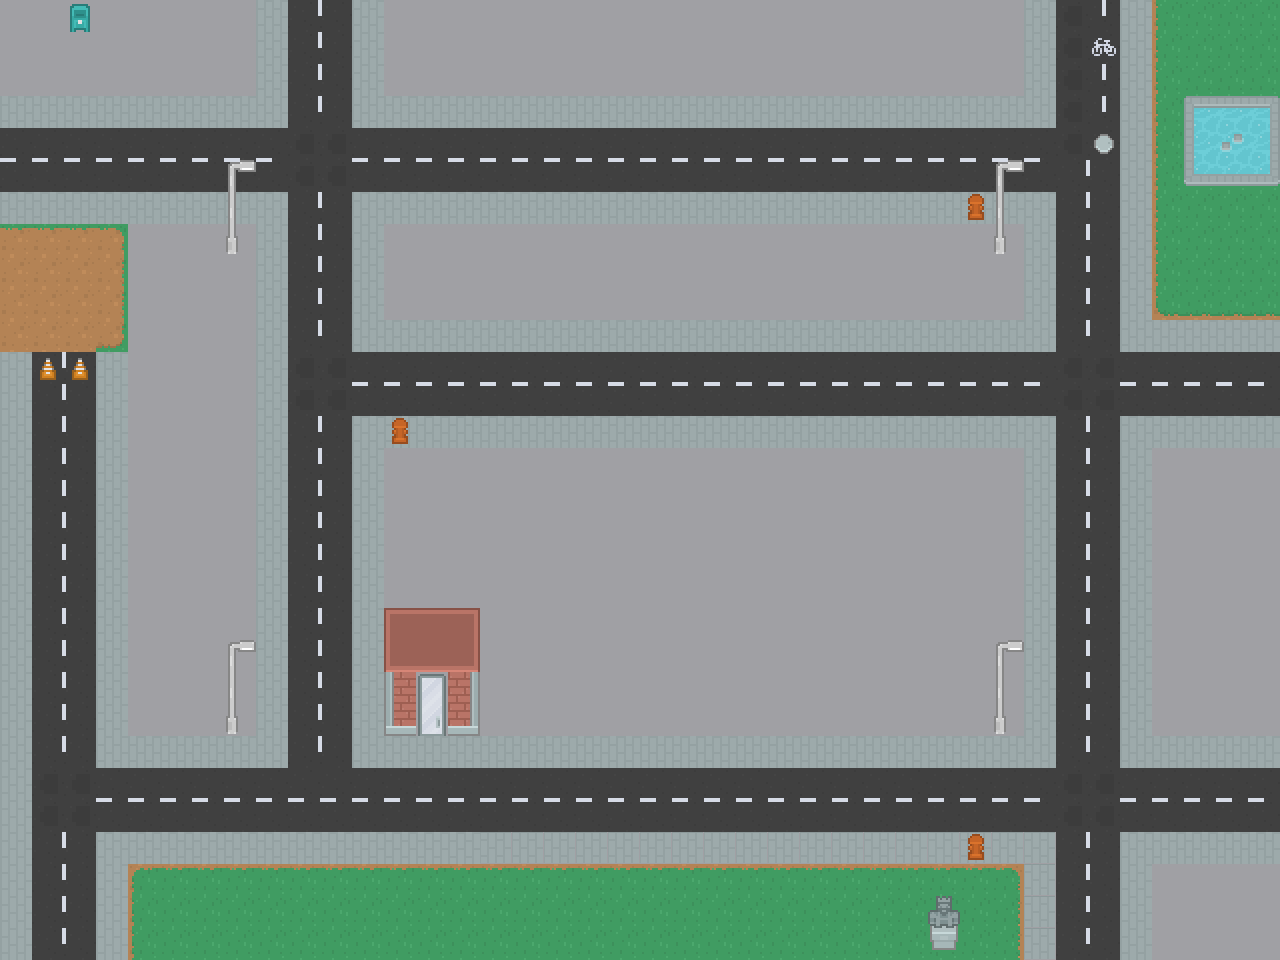
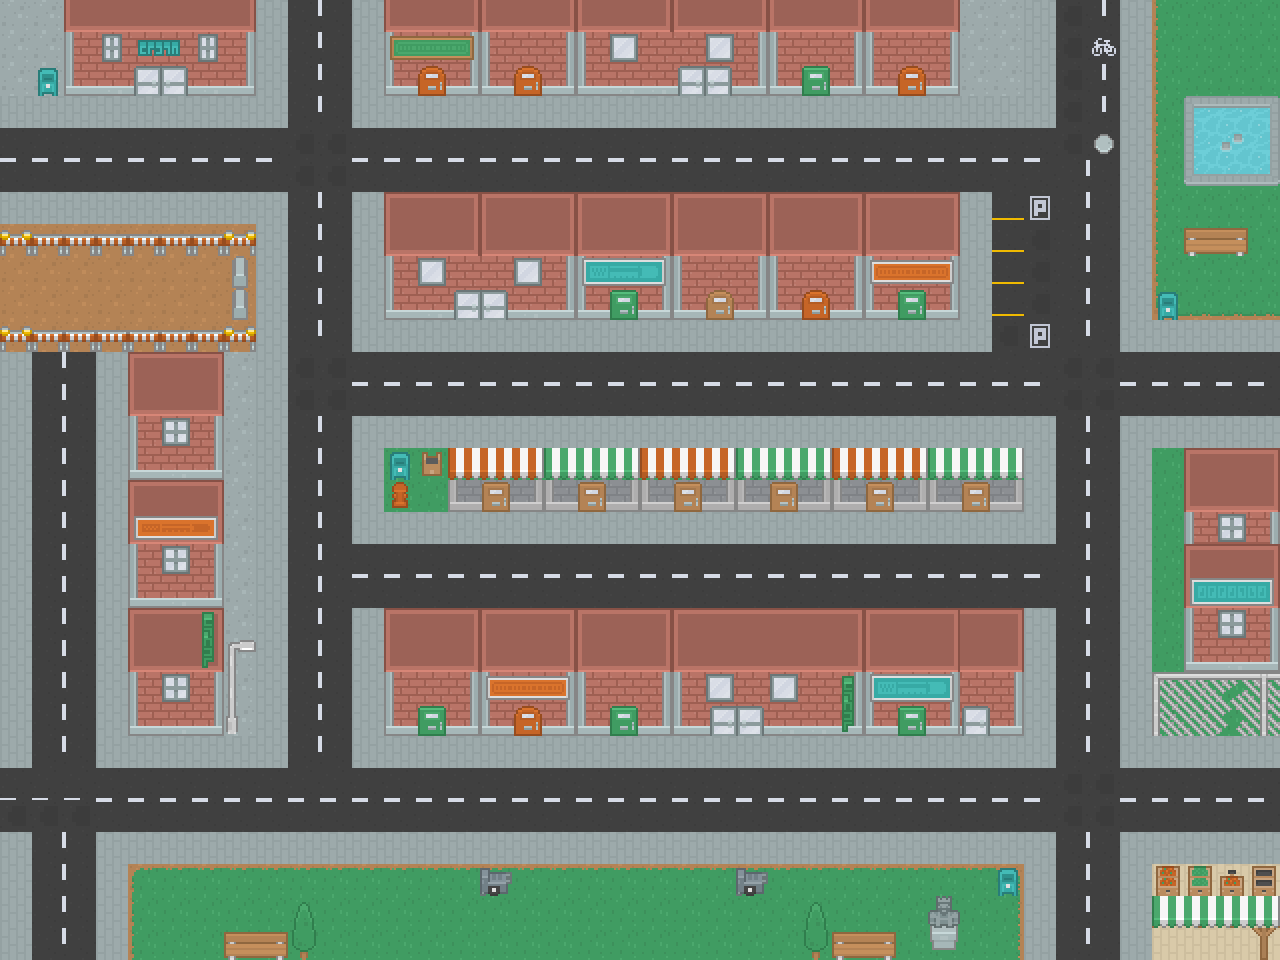
Agregados dos edificios y fondo ajustado

diff --git a/src/ia/Celda.java b/src/ia/Celda.java
@@ -13,35 +13,50 @@ public class Celda extends JComponent implements Constantes {
     public int coordenadaX;
     public int coordenadaY;
     public int i;
-    public int j;   
+    public int j;
     public char tipoCelda;
+    public int indexSprite;
+    public BufferedImage sprites[], imagenSprites;
     //nuevos atributos para manejar imagenes
-    public BufferedImage jugador, obstaculo, camino, adversario, portal;
+    public BufferedImage jugador, obstaculo, camino, vehiculo, portal;
     public BufferedImage edificio, acera, carretera;
 
     //constructor, inicializa los atributos
     public Celda(int x, int y, int i, int j, char tipo) {
         this.coordenadaX = x;
         this.coordenadaY = y;
-        this.i=i;
-        this.j=j;
+        this.i = i;
+        this.j = j;
         this.tipoCelda = tipo;
+        //indexSprite = 2;
         try {
             jugador = ImageIO.read(new File("images/jugador.png"));
-            obstaculo = ImageIO.read(new File("images/obstaculo.png"));
-            camino = ImageIO.read(new File("images/camino.png"));
-            adversario = ImageIO.read(new File("images/adversario.png"));
+            //obstaculo = ImageIO.read(new File("images/obstaculo.png"));
+            //camino = ImageIO.read(new File("images/camino.png"));
+            vehiculo = ImageIO.read(new File("images/vehiculo.png"));
             //portal = ImageIO.read(new File("images/portal.png"));
             edificio = ImageIO.read(new File("images/edificio.png"));
             acera = ImageIO.read(new File("images/acera.png"));
             carretera = ImageIO.read(new File("images/carretera.png"));
+            /*//gestion de sprites
+            //cargo la imagen de grupo de imagenes
+            imagenSprites = ImageIO.read(new File("images/jugador2.png"));
+            //creo una array de 2 x 2
+            sprites = new BufferedImage[2 * 2];
+            //lo recorro separando las imagenes
+            for (int is = 0; is < 2; is++) {
+                for (int js = 0; js < 2; js++) {
+                    sprites[(i * 2) + j] = imagenSprites.getSubimage(i * TAMANIO_CELDA, j * TAMANIO_CELDA, TAMANIO_CELDA, TAMANIO_CELDA);
+                }
+            }*/
         } catch (IOException e) {
             System.out.println(e.toString());
         }
     }
 
     @Override
-    public void update(Graphics g) {
+    public void update(Graphics g
+    ) {
         switch (tipoCelda) {
             case 'J':
                 g.drawImage(jugador, coordenadaX, coordenadaY, null);
@@ -49,9 +64,13 @@ public class Celda extends JComponent implements Constantes {
             case 'O':
                 g.drawImage(obstaculo, coordenadaX, coordenadaY, this);
                 break;
-           /* case 'V':
-                g.drawImage(camino, coordenadaX, coordenadaY, this);
-                break;*/
+            case 'V':
+                g.setColor(COLORFONDO);
+                g.fillRect(coordenadaX, coordenadaY, TAMANIO_CELDA, TAMANIO_CELDA);
+                break;
+            case 'H':
+                g.drawImage(vehiculo, coordenadaX, coordenadaY, this);
+                break;
             case 'A':
                 g.drawImage(acera, coordenadaX, coordenadaY, this);
                 break;
@@ -63,7 +82,7 @@ public class Celda extends JComponent implements Constantes {
                 break;*/
         }
     }
-    
+
     @Override
     public void paintComponent(Graphics g) {
         update(g);

diff --git a/src/ia/Lienzo.java b/src/ia/Lienzo.java
@@ -14,9 +14,13 @@ public class Lienzo extends Canvas implements Constantes {
 
     public Laberinto laberinto;
     public Image fondo;
+
     public Vehiculo auto, auto2;
     public Jugador jugador;
     public Timer lanzadorTareas;
+
+    public Graphics graficoBuffer;
+    public Image imagenBuffer;
 
     public Lienzo() {
         laberinto = new Laberinto(this);
@@ -29,8 +33,7 @@ public class Lienzo extends Canvas implements Constantes {
             System.out.println(e.toString());
         }
 
-        this.setSize(N_CELDAS_ANCHO, N_CELDAS_ALTO);
-
+        // this.setSize(N_CELDAS_ANCHO, N_CELDAS_ALTO);
         //escuchador eventos de teclado
         addKeyListener(new KeyAdapter() {
             @Override
@@ -46,8 +49,19 @@ public class Lienzo extends Canvas implements Constantes {
 
     @Override
     public void update(Graphics g) {
-        g.drawImage(fondo, 0, 0, null);
-        laberinto.paintComponent(g);
+        if (graficoBuffer == null) {
+            imagenBuffer = createImage(this.getWidth(), this.getHeight());
+            graficoBuffer = imagenBuffer.getGraphics();
+        }
+        //volcamos color de fondo e imagen en el nuevo buffer grafico
+        graficoBuffer.setColor(getBackground());
+        graficoBuffer.fillRect(0, 0, this.getWidth(), this.getHeight());
+        graficoBuffer.drawImage(fondo, 0, 0, null);
+        laberinto.update(graficoBuffer);
+        //pintamos la imagen previa
+        g.drawImage(imagenBuffer, 0, 0, null);
+        /*g.drawImage(fondo, 0, 0, null);
+        laberinto.paintComponent(g);*/
     }
 
     @Override

diff --git a/src/ia/Jugador.java b/src/ia/Jugador.java
@@ -22,9 +22,9 @@ public class Jugador extends TimerTask implements Constantes {
 
     public void moverJugadorDerecha() {
         if (jugador.coordenadaX < N_CELDAS_ANCHO - 1) {
-            //si al mover a la derecha no es adversario
+            //si al mover a la derecha no es vehiculo
             //me muevo normal
-            if (laberinto.celdas[jugador.coordenadaX + 1][jugador.coordenadaY].tipoCelda != 'A') {
+            if (laberinto.celdas[jugador.coordenadaX + 1][jugador.coordenadaY].tipoCelda != 'H') {
                 laberinto.celdas[jugador.coordenadaX][jugador.coordenadaY].tipoCelda = 'V';
                 jugador.coordenadaX = jugador.coordenadaX + 1;
                 laberinto.celdas[jugador.coordenadaX][jugador.coordenadaY].tipoCelda = 'J';
@@ -45,8 +45,8 @@ public class Jugador extends TimerTask implements Constantes {
         //si no estocoordenadaY al inicio
         if (jugador.coordenadaX > 0) {
             //compruebo que al moverme a la izquierda no
-            //este el adversario
-            if (laberinto.celdas[jugador.coordenadaX - 1][jugador.coordenadaY].tipoCelda != 'A') {
+            //este el vehiculo
+            if (laberinto.celdas[jugador.coordenadaX - 1][jugador.coordenadaY].tipoCelda != 'H') {
                 laberinto.celdas[jugador.coordenadaX][jugador.coordenadaY].tipoCelda = 'V';
                 jugador.coordenadaX = jugador.coordenadaX - 1;
                 laberinto.celdas[jugador.coordenadaX][jugador.coordenadaY].tipoCelda = 'J';

diff --git a/src/ia/Vehiculo.java b/src/ia/Vehiculo.java
@@ -9,26 +9,26 @@ public class Vehiculo extends TimerTask implements Constantes {
 
     public Vehiculo(Laberinto laberinto) {
         this.laberinto = laberinto;
-        auto = new Celda(N_CELDAS_ANCHO - 1, numeroAleatorio(0, N_CELDAS_ALTO - 1), 0, 0, 'A');
-        laberinto.celdas[auto.coordenadaX][auto.coordenadaY].tipoCelda = 'A';
+        auto = new Celda(N_CELDAS_ANCHO - 1, numeroAleatorio(0, N_CELDAS_ALTO - 1), 0, 0, 'H');
+        laberinto.celdas[auto.coordenadaX][auto.coordenadaY].tipoCelda = 'H';
     }
 
-    public void moverAdversario() {
+    public void moverVehiculo() {
         if (auto.coordenadaX > 0) {
             laberinto.celdas[auto.coordenadaX][auto.coordenadaY].tipoCelda = 'V';
             auto.coordenadaX = auto.coordenadaX - 1;
-            laberinto.celdas[auto.coordenadaX][auto.coordenadaY].tipoCelda = 'A';
+            laberinto.celdas[auto.coordenadaX][auto.coordenadaY].tipoCelda = 'H';
         } else {
             laberinto.celdas[auto.coordenadaX][auto.coordenadaY].tipoCelda = 'V';
             auto.coordenadaX = N_CELDAS_ANCHO - 1;
             auto.coordenadaY = numeroAleatorio(0, N_CELDAS_ALTO - 1);
-            laberinto.celdas[auto.coordenadaX][auto.coordenadaY].tipoCelda = 'A';
+            laberinto.celdas[auto.coordenadaX][auto.coordenadaY].tipoCelda = 'H';
         }
     }
 
     @Override
     public void run() {
-        moverAdversario();
+        moverVehiculo();
         laberinto.lienzoPadre.repaint();
     }
 }

diff --git a/src/ia/Constantes.java b/src/ia/Constantes.java
@@ -1,12 +1,13 @@
 package ia;
 
+import java.awt.Color;
 import java.util.Random;
 
 public interface Constantes {
 
-    public final int TAMANIO_CELDA = 32;
-    public final int N_CELDAS_ANCHO = 40;
-    public final int N_CELDAS_ALTO = 30;
+    public final int TAMANIO_CELDA = 31;
+    public final int N_CELDAS_ANCHO = 42;
+    public final int N_CELDAS_ALTO = 32;
     public final int SIZE_WIDTH = TAMANIO_CELDA * N_CELDAS_ANCHO;
     public final int SIZE_HEIGHT = TAMANIO_CELDA * N_CELDAS_ALTO;
 
@@ -14,12 +15,15 @@ public interface Constantes {
     public final char JUGADOR = 'J';
     public final char CAMINO = 'V';
     public final char OBSTACULO = 'O';
-    public final char ADVERSARIO = 'A';
+    public final char VEHICULO = 'H';
     //public final char PORTAL = 'P';
     //nuevas constantes
-    public final char E = 'E';
-    public final char A = 'A';
-    public final char C = 'C';
+    public final char EDIFICIO = 'E';
+    public final char ACERA = 'A';
+    public final char CALLE = 'C';
+
+    public final int ALFA = 150;
+    public final Color COLORFONDO = new Color(192, 192, 192, ALFA);
 
     default int numeroAleatorio(int minimo, int maximo) {
         Random random = new Random();

diff --git a/src/ia/Laberinto.java b/src/ia/Laberinto.java
@@ -19,12 +19,9 @@ public class Laberinto extends JComponent implements Constantes {
                 celdas[i][j] = new Celda(i + (i * TAMANIO_CELDA), j + (j * TAMANIO_CELDA), i, j, 'V');
             }
         }
-        //pongo un edificio
-        for (int i = 5; i < 9; i++) {
-            for (int j = 5; j < 9; j++) {
-                celdas[i][j].tipoCelda = 'E';
-            }
-        }
+        //pongo unos edificios
+        crearEdificio(2, 8, 0, 3);
+        crearEdificio(11, 30, 0, 3);
 
         celdaMovimiento = new Celda(0, 0, 0, 0, 'J');
     }
@@ -98,7 +95,7 @@ public class Laberinto extends JComponent implements Constantes {
     }
 
     private boolean noHayPared(int x, int y) {
-        return celdas[x][y].tipoCelda != 'E';
+        return celdas[x][y].tipoCelda != 'O';
     }
 
     private void avanzar(int x, int y, char mov) {
@@ -122,4 +119,11 @@ public class Laberinto extends JComponent implements Constantes {
         }
     }
 
+    private void crearEdificio(int x1, int x2, int y1, int y2) {
+        for (int i = x1; i < x2; i++) {
+            for (int j = y1; j < y2; j++) {
+                celdas[i][j].tipoCelda = 'O';
+            }
+        }
+    }
 }

diff --git a/src/ia/VentanaPrincipal.java b/src/ia/VentanaPrincipal.java
@@ -1,20 +1,17 @@
 package ia;
 
-import java.awt.Dimension;
 import javax.swing.JFrame;
 
 public class VentanaPrincipal extends JFrame implements Constantes {
-//nuestra clase se compone de un lienzo de dibujo (herada de canvas)
 
+    //nuestra clase se compone de un lienzo de dibujo (herada de canvas)
     public Lienzo lienzo;
-    public Dimension sizeScreen;
-//constructor
 
+    //constructor
     public VentanaPrincipal() {
         lienzo = new Lienzo();
         lienzo.setFocusable(true);
-        sizeScreen = super.getToolkit().getScreenSize();
         this.getContentPane().add(lienzo);
-        this.setSize(SIZE_WIDTH, SIZE_HEIGHT);    
+        this.setSize(SIZE_WIDTH, SIZE_HEIGHT);
     }
 }
